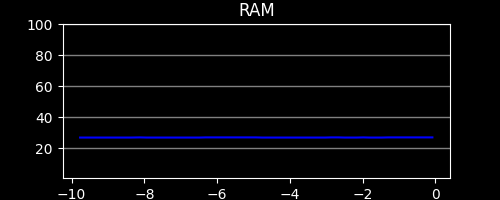
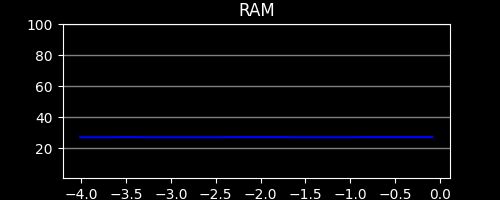
buffer plot method

Changed region(s): [[0.12, 0.93, 0.9, 1.0], [0.15, 0.66, 0.87, 0.72]]

diff --git a/src/debug_utils copy.py b/src/debug_utils copy.py
@@ -1,0 +1,176 @@
+import psutil
+import sys
+import os
+import time
+import io
+import uptime
+import threading
+import customtkinter
+from PIL import Image, ImageTk
+import matplotlib
+matplotlib.use("Agg")
+import matplotlib.pyplot as plt
+from matplotlib.backends.backend_tkagg import FigureCanvasTkAgg
+
+os_name = sys.platform
+initial_time = time.time()
+
+graphing_intervals = 120
+graphing_data = [0]*graphing_intervals
+graphing_data_time = [0]*graphing_intervals
+graphing_elapsed_time = [0]*graphing_intervals
+graphing_data_cpu_percent = [None]*graphing_intervals
+graphing_data_mem_percent = [None]*graphing_intervals
+graphing_data_temp = [None]*graphing_intervals
+
+max_temp = 0.0
+
+def get_performance_stats():
+    global max_temp
+
+    current_time = time.time()
+    uptime_days=str(int((uptime.uptime()/3600)/24)).zfill(2)
+    uptime_hours=str(int((uptime.uptime()/3600)%24)).zfill(2)
+    uptime_minutes=str(int((uptime.uptime()%3600)/60)).zfill(2)
+    uptime_seconds=str(int((uptime.uptime()%3600)%60)).zfill(2)
+    uptime_text=uptime_days+":"+uptime_hours+":"+uptime_minutes+":"+uptime_seconds
+    
+    cpu_percent = psutil.cpu_percent()
+    cpu_freq = (psutil.cpu_freq()[0])/1000
+
+    memory_percent = psutil.virtual_memory().percent 
+    memory_fraction_neum = round((psutil.virtual_memory().total - psutil.virtual_memory().available)/(1024**3),1)  
+    memory_fraction_denom = round(((psutil.virtual_memory().total)/(1024**3)),1)
+    memory_fraction_str = str(memory_fraction_neum)+"/"+str(memory_fraction_denom)
+
+    disk_percent = psutil.disk_usage(os.path.join('/')).percent
+    disk_fraction_neum = round((psutil.disk_usage(os.path.join('/')).used / 1024**3),1)
+    disk_fraction_denom = int((psutil.disk_usage((os.path.join('/'))).total / 1024**3))
+    disk_fraction_str = str(disk_fraction_neum)+"/"+str(disk_fraction_denom)
+
+    if os_name == "linux":
+        current_temp = round(psutil.sensors_temperatures()["cpu_thermal"][0].current,1)
+        if current_temp > max_temp:
+            max_temp = current_temp
+    else:
+        current_temp = 0.0
+
+    pids_count = len(psutil.pids())
+
+    performance_stats = {
+        "current_time": current_time,
+        "uptime": (uptime_text, uptime_days, uptime_hours, uptime_minutes, uptime_seconds),
+        "cpu_percent": cpu_percent,
+        "cpu_freq": cpu_freq,
+        "mem_percent": memory_percent,
+        "mem_fraction": memory_fraction_str,
+        "disk_percent": disk_percent, 
+        "disk_fraction": disk_fraction_str,
+        "temp_current": current_temp, 
+        "temp_max": max_temp,
+        "pids": pids_count
+    }
+    
+    return(performance_stats)
+
+def collect_graph_data():
+    graphing_data.insert(0, get_performance_stats()) 
+    if len(graphing_data) >= graphing_intervals:
+        graphing_data.pop()
+
+def split_graphing_data():
+    graphing_data_time.insert(0, graphing_data[0]["current_time"])
+    graphing_data_cpu_percent.insert(0, graphing_data[0]["cpu_percent"])
+    graphing_data_mem_percent.insert(0, graphing_data[0]["mem_percent"])
+    graphing_data_temp.insert(0, graphing_data[0]["temp_current"])
+    
+    if len(graphing_data_time) >= graphing_intervals:
+        graphing_data_time.pop()
+    if len(graphing_data_cpu_percent) >= graphing_intervals:
+        graphing_data_cpu_percent.pop()
+    if len(graphing_data_mem_percent) >= graphing_intervals:
+        graphing_data_mem_percent.pop()
+    if len(graphing_data_temp) >= graphing_intervals:
+        graphing_data_temp.pop()
+
+    for i in range(0, len(graphing_data_time)):
+        if not graphing_data_time[i] == 0:
+            graphing_elapsed_time[i] = graphing_data_time[i] - time.time()
+        else:
+            graphing_elapsed_time[i] = 0
+
+def mpl_to_ctkimage(fig):
+    buf = io.BytesIO()
+    fig.savefig(buf, format="png")
+    buf.seek(0)
+    image = Image.open(buf)
+    ctk_image = customtkinter.CTkImage(light_image=image, dark_image=image, size=(image.width, image.height))
+    return ctk_image
+
+
+app = customtkinter.CTk()
+app.title("Graphing Test")
+app.geometry("500x500")
+#app.attributes("-fullscreen", True)
+cpu_label = customtkinter.CTkLabel(app, text="",fg_color="gray16",bg_color="black")
+cpu_label.pack(fill="both",expand=True,padx=10,pady=10)
+mem_label = customtkinter.CTkLabel(app, text="",fg_color="gray16",bg_color="black")
+mem_label.pack(fill="both",expand=True,padx=10,pady=10)
+temp_label = customtkinter.CTkLabel(app, text="",fg_color="gray16",bg_color="black")
+temp_label.pack(fill="both",expand=True,padx=10,pady=10)
+
+def collect():
+    while True:
+        collect_graph_data()
+        split_graphing_data()
+        time.sleep(0.1)
+
+def plots():
+    while True:     
+        cpu_fig = plt.figure(figsize=(5,2))
+        plt.title("CPU")
+        plt.ylim(1,100)
+        plt.style.use("dark_background")
+        plt.grid(axis="y",color="gray",lw=1)     
+        plt.plot(graphing_elapsed_time, graphing_data_cpu_percent,color="blue")
+        ctk_cpu_img = mpl_to_ctkimage(cpu_fig)
+        cpu_label.configure(image=ctk_cpu_img)
+        save_ctk_cpu_img = ctk_cpu_img
+
+        mem_fig = plt.figure(figsize=(5,2))
+        plt.title("RAM")
+        plt.ylim(1,100)
+        plt.style.use("dark_background")
+        plt.grid(axis="y",color="gray",lw=1)     
+        plt.plot(graphing_elapsed_time, graphing_data_mem_percent,color="blue")
+        ctk_mem_img = mpl_to_ctkimage(mem_fig)
+        mem_label.configure(image=ctk_mem_img)
+        save_ctk_mem_img = ctk_mem_img
+
+        temp_fig = plt.figure(figsize=(5,2))
+        plt.title("TEMP")
+        plt.ylim(1,100)
+        plt.style.use("dark_background")
+        plt.grid(axis="y",color="gray",lw=1)     
+        plt.plot(graphing_elapsed_time, graphing_data_temp,color="blue")
+        ctk_temp_img = mpl_to_ctkimage(temp_fig)
+        temp_label.configure(image=ctk_temp_img)
+        save_ctk_temp_img = ctk_temp_img
+
+        plt.close("all")
+        time.sleep(0.1)
+
+collect_debug_thread = threading.Thread(target=collect, daemon=True)
+collect_debug_thread.start()
+
+plotting_thread = threading.Thread(target=plots, daemon=True)
+plotting_thread.start()
+
+app.mainloop()
+
+
+
+
+
+
+
